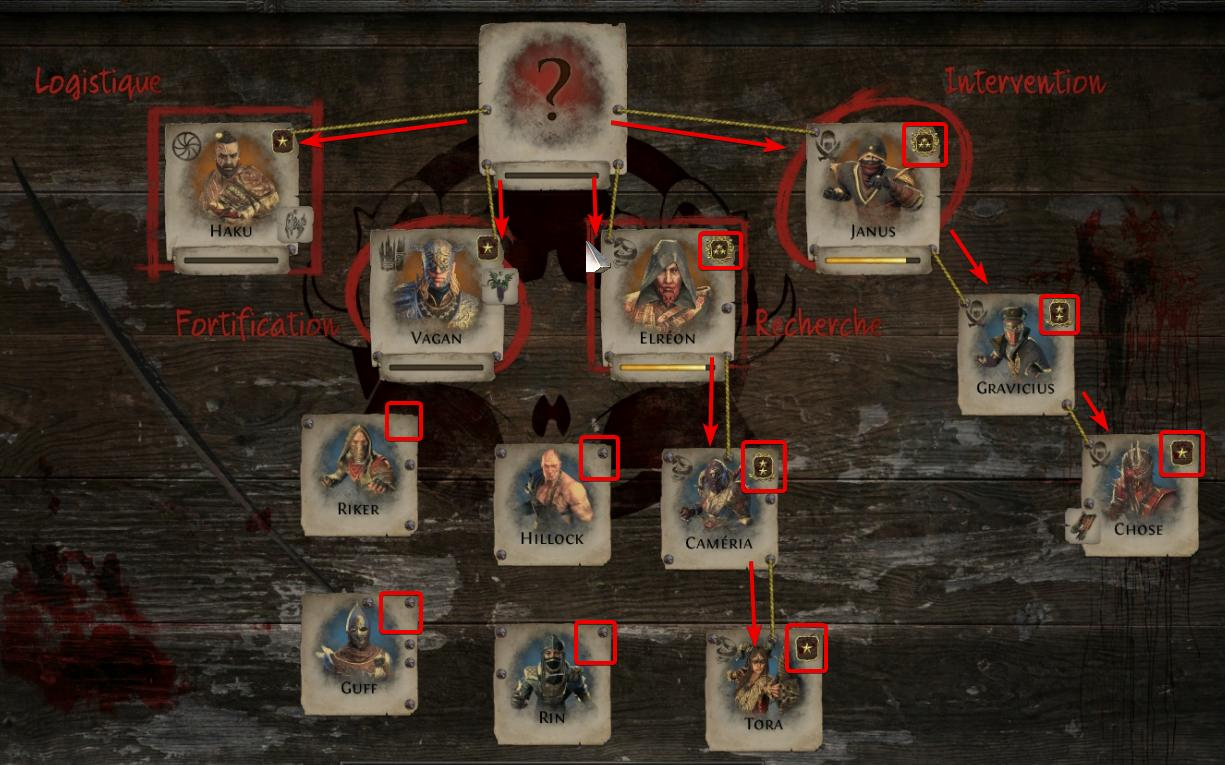
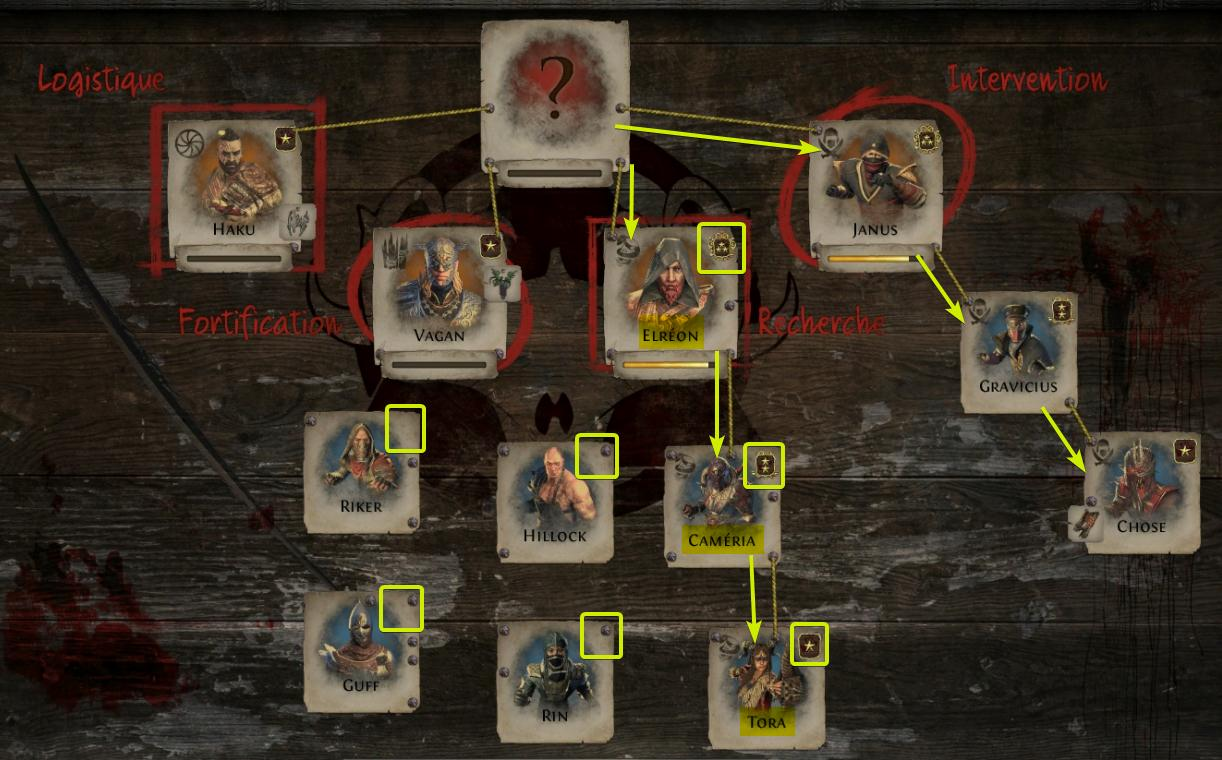
wip

diff --git a/betrayal.html b/betrayal.html
@@ -105,32 +105,40 @@
 		</div>
 		
 		<div class=betrayalMenuOptions id=betrayalRelationsText>
-			<p>Les relations au sein du Syndicat influent sur les actions des membres entre eux.
-			<br /><br />Par exemple, si un membre de la faction <b class=factions>Logistique</b> est <b class=rivals>rival</b> avec un membre de la faction <b class=factions>Recherche</b>, 
-			alors il est probable que le membre de la <b class=factions>Logistique</b> intervienne pour vous aider lorsque vous combattrez son <b class=rivals>rival</b> de la faction <b class=factions>Recherche</b>.
-			<br />En revanche, des <b class=allies>alli&eacute;s</b> s'entraideront, rendant le combat plus compliqu&eacute; mais vous offrant plus de butin et plus d'emprise sur le Syndicat.<br /><br /></p>
-			<p>La <b class=allies>loyaut&eacute;</b> est represent&eacute;e par un cordon vert reliant deux cartes de membre. 
-			<br />La <b class=rivals>rivalit&eacute;</b> est represent&eacute; par un cordon rouge et les cordons jaunes repr&eacute;sente l'appartenance &agrave; une m&ecirc;me faction.
-			<br />Vous pouvez visualiser les relations des membres dans l'outil d'aide de votre panneau du Syndicat.</p><br />
+			<p>Les relations au sein du Syndicat influent sur les actions des membres entre eux.</p>
+					
+			<span>
+				<p>La <b class=allies>loyaut&eacute;</b> est represent&eacute;e par un cordon vert reliant deux cartes de membre. 
+				<br />La <b class=rivals>rivalit&eacute;</b> est represent&eacute; par un cordon rouge et les cordons <b class=neutral>jaunes</b> repr&eacute;sentent l'appartenance &agrave; une m&ecirc;me faction.
+				<p>Dans l'exemple à droite, <b class=members>Elréon</b> (☆☆☆) de la faction <b class=factions>Recherche</b> est <b class=rivals>rival</b> avec <b class=members>Hillock</b> (sans faction).
+				Il est donc probable qu'<b class=members>Hillock</b> vienne vous aider lorsque vous attaquerez la faction <b class=factions>Recherche</b>. Facilitant le combat, mais réduisant le butin.
+				<br /><br />En revanche, des <b class=allies>alli&eacute;s</b> s'entraideront, rendant le combat plus compliqu&eacute; mais vous offrant plus de butin. <br /><br />
+				<br />Vous pouvez visualiser les relations des membres dans l'outil d'aide de votre panneau du Syndicat.</p>
+			</span>
+			<span>
+				<img src="assets/betrayal/relations.jpg" height="493" width="494" class=imgBorder id=imgBorderLeft>
+			</span>
 			
+			<br />
+
 			<span>
 				<img src="assets/betrayal/ranks.jpg" height="600" width="1000" class=imgBorder>
 			</span>
 			<span>
-				<p><br />Les rangs (represent&eacute;s par les &eacute;toiles sur sa carte de membre) quantifie la puissance mais aussi la qualité des butins d'un membre.
+				<p><br />Les rangs (represent&eacute;s par les &eacute;toiles sur les cartes de membre) quantifient la puissance mais aussi la qualité des butins d'un membre.
 				<br /><br />Les rangs peuvent &ecirc;tre obtenu (ou perdu) aux travers des interactions avec un membre captur&eacute; lors d'une rencontre.<br /><br />
 				<br />La position des cartes des membres au sein d'une faction dépend de la hiérachie interne à la faction (représentée par les rangs). <br />
 				<br />Un membre sans rang n'appartient &agrave; aucune faction et ce jusqu'&agrave; qu'il soit promu.</p>
 			</span>
 			
 			<p><br />Prenons la faction de la <b class=factions>Recherche</b> dans l'exemple ci-dessus. 
-			<br /><b>Elréon</b>, de rang 3 (maximum) est à la tête de la faction et <b>Caméria</b>, de rang 2, est sa subordonné.
-			<br /><b>Tora</b>, elle, n'est que de rang 1 et est la subordonnée de <b>Caméria</b>. Tout trois seront donc présent lorsque vous attaquerez leurs abris.
+			<br /><br /><b class=members>Elréon</b> (☆☆☆) est à la tête de la faction et <b class=members>Caméria</b> (☆☆), est sa subordonné.
+			<br /><b class=members>Tora</b>, elle, n'est que de rang (☆) et est la subordonnée de <b class=members>Caméria</b>. Tout trois seront donc présent lorsque vous attaquerez leurs abris.
 			
-			<br /><br />Hillock, Rin, Guff et Riker ne sont dans aucune faction et n'interviendront donc pas lors de l'attaque d'un abri, sauf s'ils sont promus d'ici là. Ils se peut (dépendant des relations au sein du Syndicat)
+			<br /><br /><b class=members>Hillock</b>, <b class=members>Rin</b>, <b class=members>Guff</b> et <b class=members>Riker</b> ne sont dans aucune faction et n'interviendront donc pas lors de l'attaque d'un abri, sauf s'ils sont promus d'ici là. Ils se peut (dépendant des relations au sein du Syndicat)
 			que ceux-ci interviennent sur le terrain, lors d'une attaque de faction.
-			<br /><br />Ce cas de figure peut se présenter si Riker, par exemple, est allié avec Tora et que vous croisez Tora dans un laboratoire souterrain (point d'attaque de la <b class=factions>Recherche</b>).
-			<br />Si vous battez Tora et Riker, vous aurez peut-être l'opportunité de grader Riker au sein du Syndicat.
+			<br /><br />Ce cas de figure peut se présenter si <b class=members>Riker</b>, par exemple, est allié avec <b class=members>Tora</b> et que vous croisez Tora dans un laboratoire souterrain (point d'attaque de la <b class=factions>Recherche</b>).
+			<br />Si vous battez <b class=members>Tora</b> et <b class=members>Riker</b>, vous aurez peut-être l'opportunité de grader <b class=members>Riker</b> au sein du Syndicat.
 			
 		</div>
 		

diff --git a/css/style.css b/css/style.css
@@ -61,6 +61,10 @@
 	color: #8888ff;
 }
 
+.members {
+	color: #A0A0A0;
+}
+
 .factionsTitle {
 	color: #8888ff;
 	font-size: 125%;
@@ -76,6 +80,10 @@
 
 .allies {
 	color: #4c9d49;
+}
+
+.neutral {
+	color: #CCCC00;
 }
 
 .flavorText {
@@ -245,6 +253,10 @@ img.mainMenuBorder {
 	margin-right: 2em;
 }
 
+#imgBorderLeft {
+	margin-left: 2em;
+}
+
 .betrayalFormatting {
   display: table;
 }
@@ -253,3 +265,4 @@ span {
   vertical-align: middle;
   display: table-cell;
 }
+
